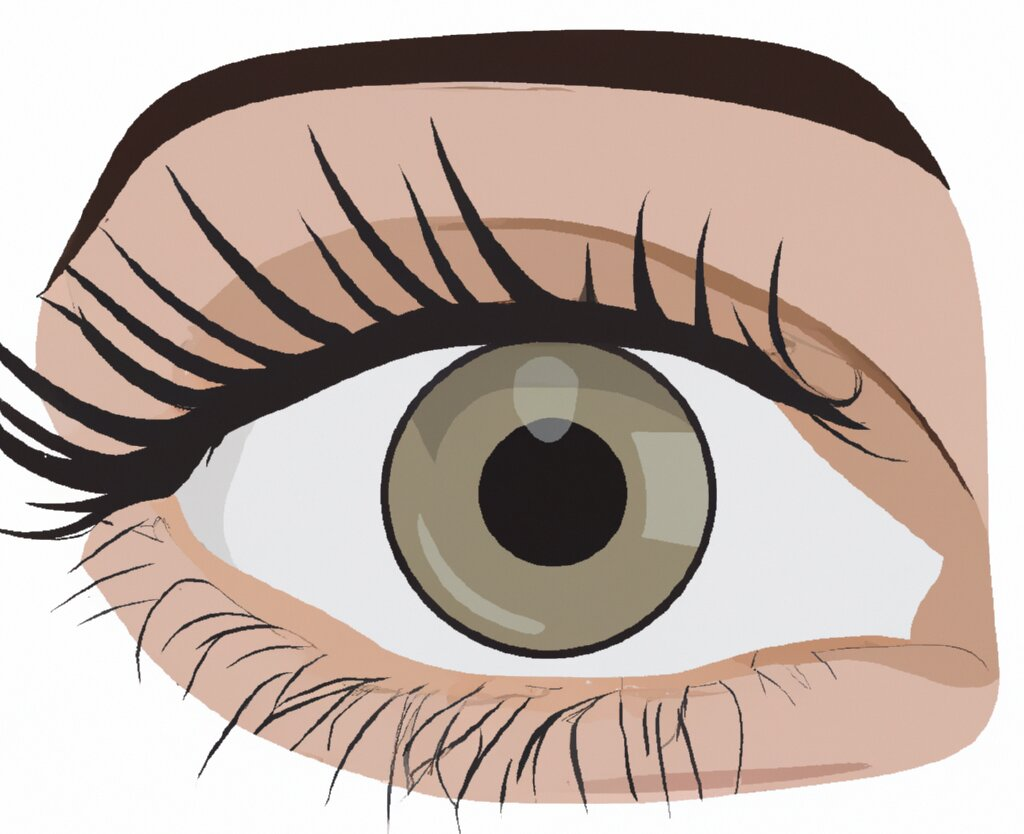
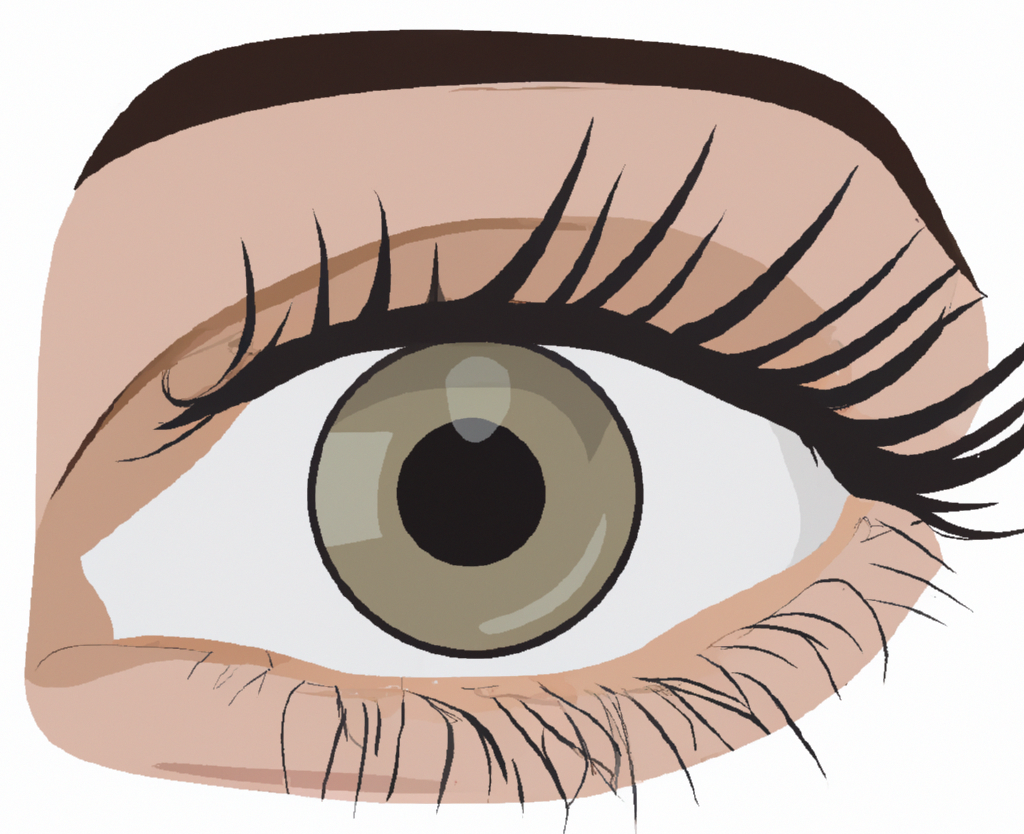
Button Changes

diff --git a/src/pages/Examination.js b/src/pages/Examination.js
@@ -224,6 +224,13 @@ function Examination(props) {
     setYCoord(y);
   };
 
+  let button = null;
+  if (imagePath.includes("left")) {
+    button = <button class="btnRight" onClick={() => {setImagePath(righteyeSource);}}>{'Right'}</button>;
+  } else if(imagePath.includes("right")) {
+    button = <button class="btnLeft" onClick={() => {setImagePath(lefteyeSource);}}>{'Left'}</button>;
+  }
+
   return (
     <div className="App" >
       <div className="box">
@@ -236,8 +243,7 @@ function Examination(props) {
       <Menu setLineColor={setLineColor} setLineWidth={setLineWidth} setLineOpacity={setLineOpacity}
       brushSize={brushSize} brushOpacity={brushOpacity} />
       <div className="button-container">
-      <Button className="image_selection" onClick={() => {setImagePath(righteyeSource);}}>Right Eye</Button>
-      <Button className="image_selection" onClick={() => {setImagePath(lefteyeSource);}}>Left Eye</Button>
+      <Button className="image_selection" onClick={() => {setImagePath(lefteyeSource);}}>Outer Eye</Button>
       <Button className="image_selection" onClick={() => {setImagePath(innereyeSource);}}>Inner Eye</Button>
       <Button className="image_selection" onClick={loadDiagnosesForPatient}>Load Annotations</Button>
       </div>
@@ -250,7 +256,7 @@ function Examination(props) {
         <CanvasApp width={1024} height={834} popup = {handleSetPopUp} lineColor={lineColor} brushSize={brushSize} brushOpacity={brushOpacity} 
         returnCoords = {handleCoords} annotations={annotations} image={imagePath} setAnnotations={setAnnotations} lines={lines} setLines={setLines} state={state} setState={setState}/>
         </div>
-      
+        {button}
       </div>
       <Accordion.Container margin="1rem">
         <Accordion.Item

diff --git a/src/App.css b/src/App.css
@@ -39,6 +39,45 @@ h1 {
   position: relative;
   background-color: white;
 }
+
+/* Style the button and place it in the middle of the container/image */
+.draw-area .btnRight {
+  position: absolute;
+  top: 50%;
+  left: 100%;
+  transform: translate(-50%, -50%);
+  -ms-transform: translate(-50%, -50%);
+  background-color: #555;
+  color: white;
+  font-size: 12px;
+  padding: 410px 6px;
+  border: none;
+  cursor: pointer;
+  border-radius: 5px;
+}
+
+.draw-area .btnRight:hover {
+  background-color: black;
+}
+
+.draw-area .btnLeft {
+  position: absolute;
+  top: 50%;
+  left: 0%;
+  transform: translate(-50%, -50%);
+  -ms-transform: translate(-50%, -50%);
+  background-color: #555;
+  color: white;
+  font-size: 12px;
+  padding: 410px 6px;
+  border: none;
+  cursor: pointer;
+  border-radius: 5px;
+}
+
+.draw-area .btnLeft:hover {
+  background-color: black;
+}
   
 .Menu {
   width: 1024px;
